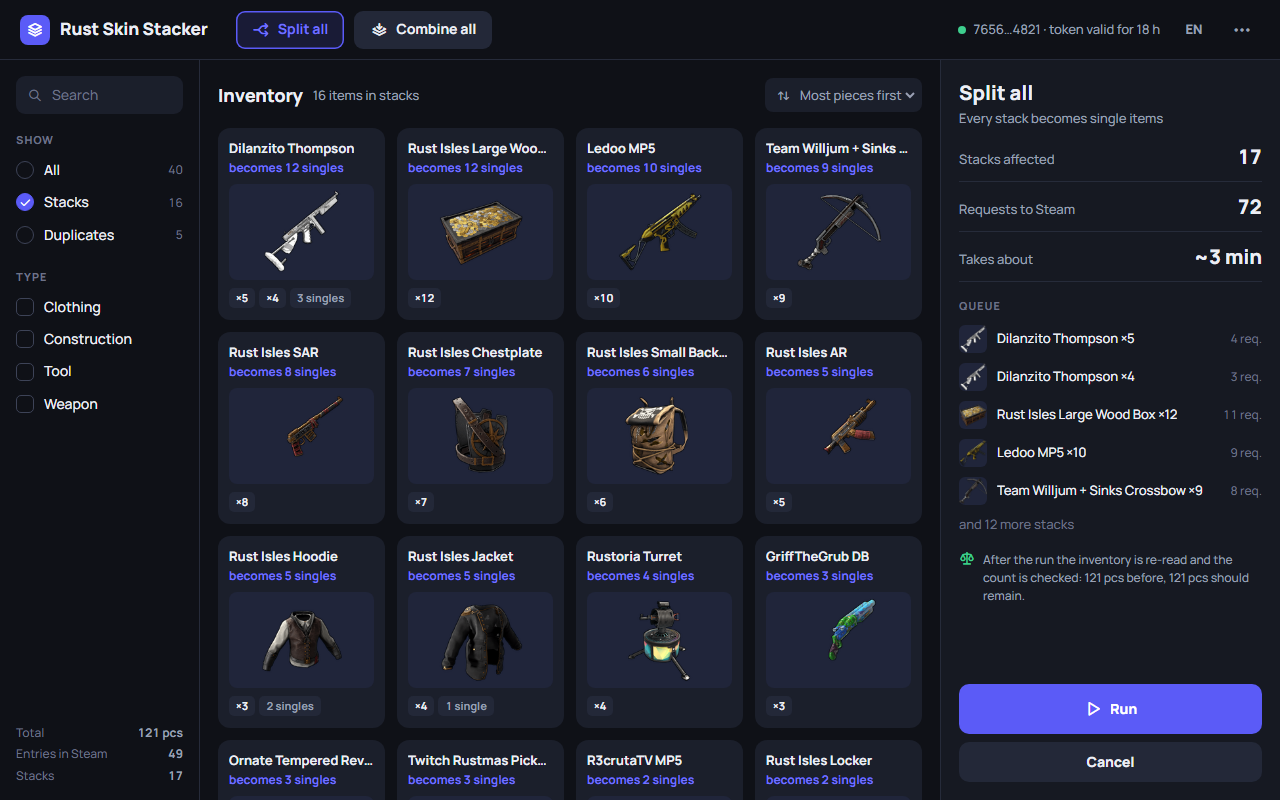
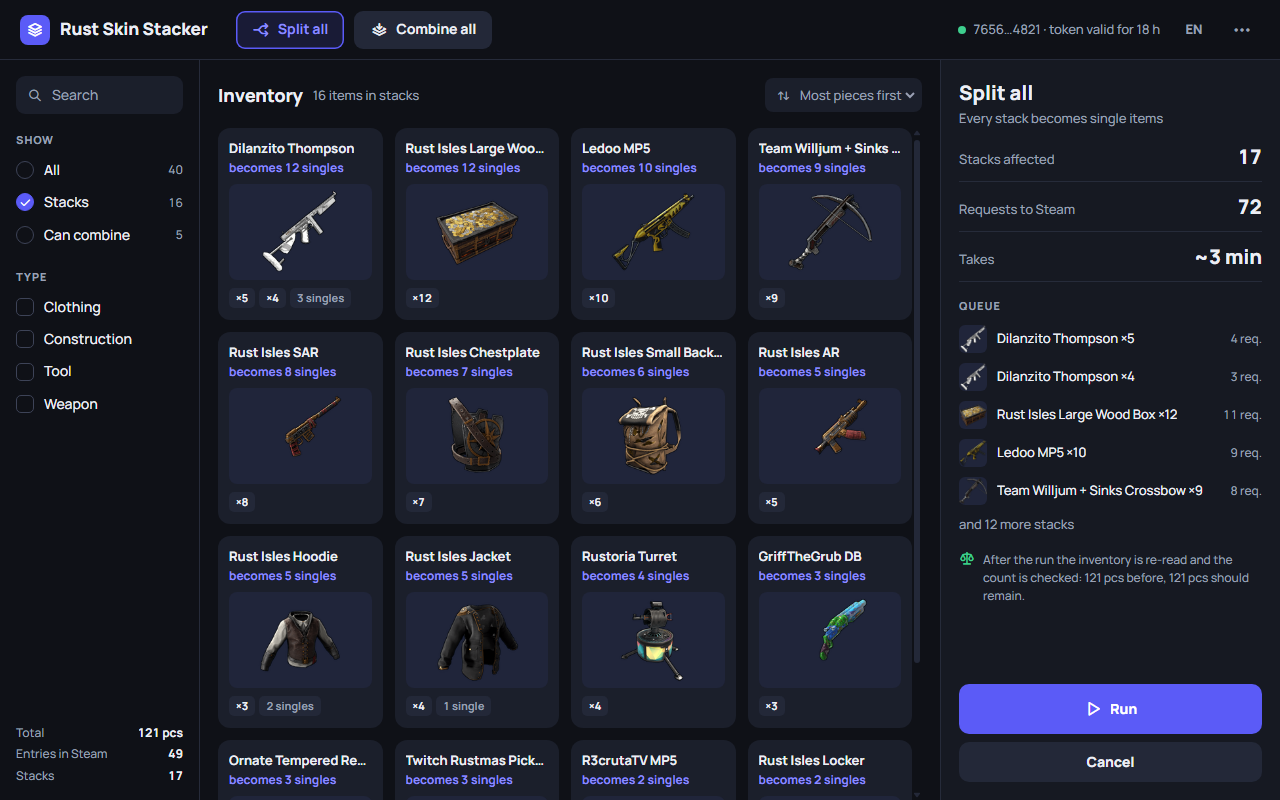
docs: свежие снимки окна для README и название attest в спеке
Снимки main.png и plan.png сняты заново на английском, 1280×800, из
демо-режима: фильтр «Can combine», текущая правая панель. В спеке
actions/attest-build-provenance заменён на actions/attest, как в
workflow, и описание фильтра «Можно собрать» приведено к правилу
«Собрать».

diff --git a/docs/superpowers/specs/2026-10-26-rust-skin-stacker-design.md b/docs/superpowers/specs/2026-10-26-rust-skin-stacker-design.md
@@ -97,7 +97,7 @@ src/
 - **Верхняя панель:** название, крупные кнопки «Разделить всё» и «Собрать всё», аккаунт и время жизни токена («7656…4821 · токен ещё 18 ч»), переключатель языка, меню с пунктами «Забыть токен» и «Настройки».
 - **Слева, фильтры:**
   - поиск;
-  - «Показать»: Все, Стопки, Можно собрать (у предмета больше одной записи), с числом предметов у каждого пункта;
+  - «Показать»: Все, Стопки, Можно собрать (у предмета есть хотя бы две записи с одинаковыми classid и instanceid — то же правило, что у действия «Собрать»), с числом предметов у каждого пункта;
   - «Тип» по тегу `steamcat`;
   - внизу итог: всего штук, записей в Steam, стопок.
 - **В центре, сетка карточек.**
@@ -178,7 +178,7 @@ src/
   - для Windows NSIS `.exe` и `.msi`;
   - для Linux `.AppImage`, `.deb` и `.rpm`.
 
-  Кроме того, создаётся файл `SHA256SUMS`, к каждому файлу прикладывается подтверждение происхождения (`actions/attest-build-provenance`, проверка через `gh attestation verify`). Релиз создаётся черновиком и публикуется вручную.
+  Кроме того, создаётся файл `SHA256SUMS`, к каждому файлу прикладывается подтверждение происхождения (`actions/attest`, проверка через `gh attestation verify`). Релиз создаётся черновиком и публикуется вручную.
 - **Dependabot** — для cargo, npm и Actions.
 - **Файлы:**
   - `README.md` (EN) и `README.ru.md`: что делает приложение, скриншоты, как получить токен, «Почему этому можно доверять» и как проверить файл, предупреждение SmartScreen, «не связано с Valve и Facepunch», «на свой риск», сборка из исходников;
